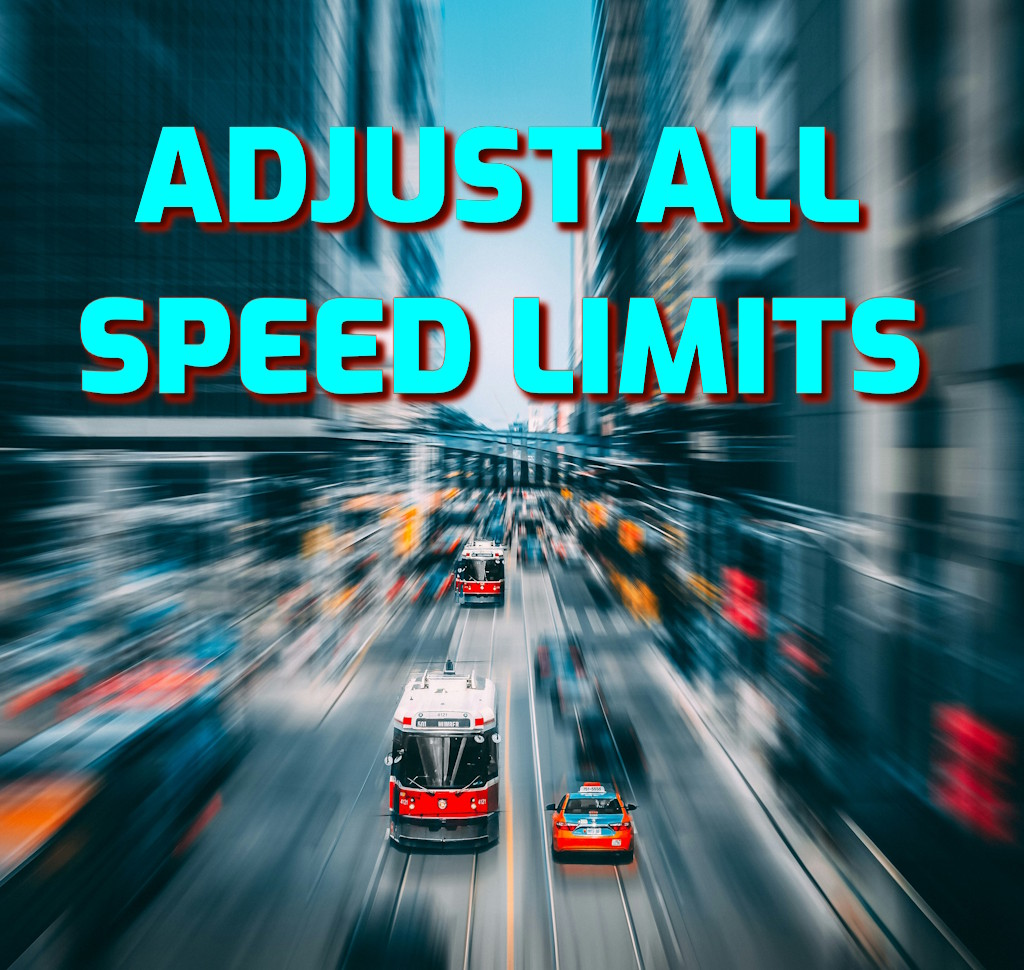
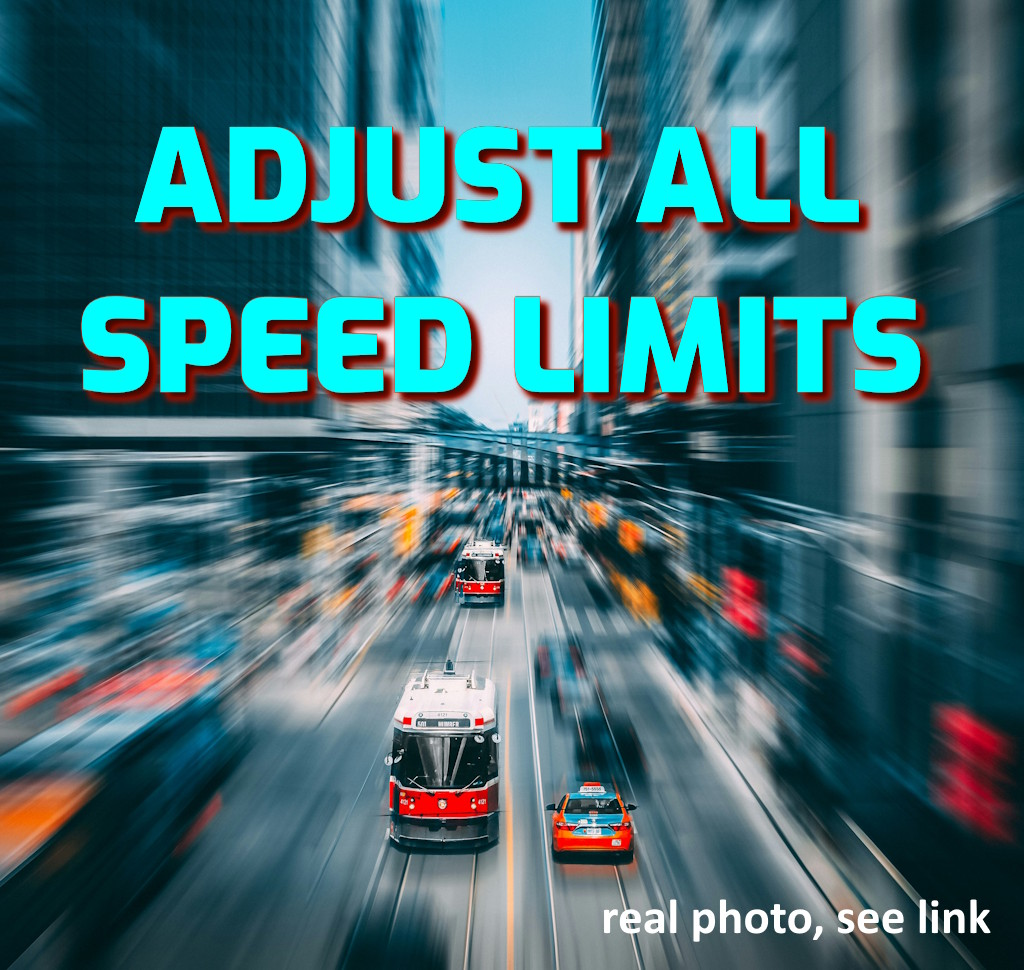
Color rail speed markers green

diff --git a/AllSpeedLimits/Systems/Rendering/SpeedLimitMarkerRenderSystem.cs b/AllSpeedLimits/Systems/Rendering/SpeedLimitMarkerRenderSystem.cs
@@ -42,6 +42,13 @@ namespace RoadRailSpeeds.Systems
             public Material? Material;
         }
 
+        private enum MarkerVisualKind
+        {
+            Default = 0,
+            Custom = 1,
+            Rail = 2
+        }
+
         private RenderingSystem m_RenderingSystem = null!;
         private OverlayRenderSystem m_OverlayRenderSystem = null!;
         private SegmentSpeedToolSystem m_SegmentSpeedToolSystem = null!;
@@ -54,6 +61,7 @@ namespace RoadRailSpeeds.Systems
         // Floating number color knobs. These are text-only markers, not road-selection outlines.
         private static readonly Color s_DefaultMarkerTextColor = new Color(1f, 1f, 1f, 1f);
         private static readonly Color s_CustomMarkerTextColor = new Color(0.24f, 0.88f, 1.00f, 1f);
+        private static readonly Color s_RailMarkerTextColor = new Color(0.45f, 1.00f, 0.20f, 1f);
         // Marker tooltip hit-test knobs. Screen-distance math only; no physics raycasts.
         // Increase padding/min size for easier hover, decrease them when the tooltip feels too eager.
         // Keep the hover target a little larger than the visible glyphs so marker tooltips stay easy to trigger.
@@ -211,11 +219,12 @@ namespace RoadRailSpeeds.Systems
                     bool isWaterwayType = IsWaterwayEdge(edge);
                     int speedKmh = Mathf.RoundToInt(customSpeed.m_Speed);
                     bool isDefaultSpeed = IsDefaultSpeed(edge, customSpeed.m_Speed);
-                    int cacheKey = GetTextMeshCacheKey(speedKmh, isDefaultSpeed);
+                    MarkerVisualKind visualKind = GetMarkerVisualKind(edge, isDefaultSpeed);
+                    int cacheKey = GetTextMeshCacheKey(speedKmh, visualKind);
 
                     if (!m_TextMeshCache.TryGetValue(cacheKey, out TextMeshInfo meshInfo))
                     {
-                        meshInfo = CreateTextMesh(speedKmh, isDefaultSpeed);
+                        meshInfo = CreateTextMesh(speedKmh, visualKind);
                         m_TextMeshCache[cacheKey] = meshInfo;
                     }
 
@@ -351,7 +360,7 @@ namespace RoadRailSpeeds.Systems
             return !string.IsNullOrEmpty(m_MarkerTooltipText);
         }
 
-        private TextMeshInfo CreateTextMesh(int speedKmh, bool isDefaultSpeed)
+        private TextMeshInfo CreateTextMesh(int speedKmh, MarkerVisualKind visualKind)
         {
             // The game shares ONE TextMeshPro instance (OverlayRenderSystem.GetTextMesh) across
             // every world-UI overlay label, including vanilla road and district name labels.
@@ -375,7 +384,7 @@ namespace RoadRailSpeeds.Systems
                 bool showMetric = m_Settings?.ShouldShowMetric(isEUMap) ?? isEUMap;
                 bool doubleDisplay = m_Settings?.DoubleSpeedDisplay ?? false;
                 int multiplier = doubleDisplay ? 2 : 1;
-                Color textColor = isDefaultSpeed ? s_DefaultMarkerTextColor : s_CustomMarkerTextColor;
+                Color textColor = GetMarkerTextColor(visualKind);
 
                 textMesh.rectTransform.sizeDelta = new Vector2(176f, 92f);
                 // Base font size for floating speed number before zoom scaling is applied above.
@@ -413,7 +422,7 @@ namespace RoadRailSpeeds.Systems
 
                 string unitSuffix = showMetric ? "kmh" : "mph";
                 string doubleSuffix = doubleDisplay ? "_2x" : string.Empty;
-                string styleSuffix = isDefaultSpeed ? "default" : "custom";
+                string styleSuffix = GetMarkerVisualKindSuffix(visualKind);
 
                 Mesh mesh = new Mesh
                 {
@@ -500,6 +509,29 @@ namespace RoadRailSpeeds.Systems
         private bool IsWaterwayEdge(Entity edge)
         {
             return EntityManager.HasComponent<Waterway>(edge);
+        }
+
+        private MarkerVisualKind GetMarkerVisualKind(Entity edge, bool isDefaultSpeed)
+        {
+            if (isDefaultSpeed)
+            {
+                return MarkerVisualKind.Default;
+            }
+
+            return IsTrainOrSubwayEdge(edge)
+                ? MarkerVisualKind.Rail
+                : MarkerVisualKind.Custom;
+        }
+
+        private bool IsTrainOrSubwayEdge(Entity edge)
+        {
+            if (EntityManager.HasComponent<TramTrack>(edge))
+            {
+                return false;
+            }
+
+            return EntityManager.HasComponent<TrainTrack>(edge) ||
+                EntityManager.HasComponent<SubwayTrack>(edge);
         }
 
         private static Camera? GetGameCamera(List<Camera> cameras)
@@ -660,9 +692,29 @@ namespace RoadRailSpeeds.Systems
             };
         }
 
-        private static int GetTextMeshCacheKey(int speedKmh, bool isDefaultSpeed)
+        private static Color GetMarkerTextColor(MarkerVisualKind visualKind)
         {
-            return (speedKmh * 2) + (isDefaultSpeed ? 1 : 0);
+            return visualKind switch
+            {
+                MarkerVisualKind.Default => s_DefaultMarkerTextColor,
+                MarkerVisualKind.Rail => s_RailMarkerTextColor,
+                _ => s_CustomMarkerTextColor
+            };
+        }
+
+        private static string GetMarkerVisualKindSuffix(MarkerVisualKind visualKind)
+        {
+            return visualKind switch
+            {
+                MarkerVisualKind.Default => "default",
+                MarkerVisualKind.Rail => "rail",
+                _ => "custom"
+            };
+        }
+
+        private static int GetTextMeshCacheKey(int speedKmh, MarkerVisualKind visualKind)
+        {
+            return (speedKmh * 4) + (int)visualKind;
         }
 
         private string GetCurrentMapTheme()

diff --git a/AllSpeedLimits/Localization/LocaleEN.cs b/AllSpeedLimits/Localization/LocaleEN.cs
@@ -86,9 +86,9 @@ namespace RoadRailSpeeds
                     "<Off> shows a simpler scale, usually closer to road decals.\n" +
                     "<On> panel and floating text show the game's higher internal speed scale.\n" +
                     "Useful if another tooltip mod shows game internal doubled values and you want to match.\n" +
-                    "This is visual Display only; saved speeds <do not really change>.\n" +
-                    "Road decals are art and may not exactly match the game's prefab speed data.\n" +
-                    "If this is confusing, just keep it Off. Cars will look the same moving if this is on or off."
+                    "**This is visual Display only;** saved speeds <do not really change>.\n" +
+                    "If this is confusing, just keep it Off. Cars will look the same moving if this is on or off.\n" +
+                    "Note: road decals are Art and may not match the game's real prefab speed data. 35 mph sign may be 31 mph. Game does roads in metric first, then converts."
                 },
 
                 // Enum values